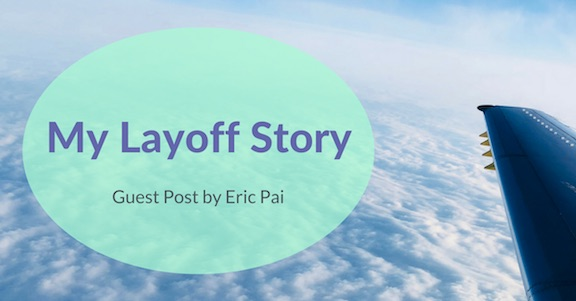
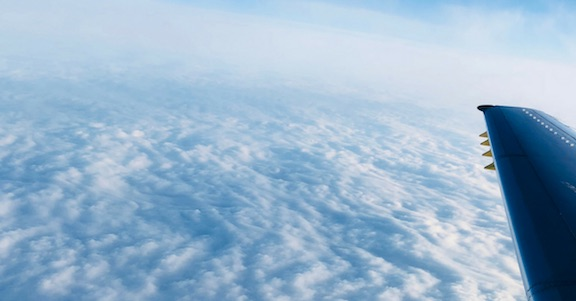
Headling/Picture Changes

diff --git a/_posts/2018-07-16-getting-laid-off.md b/_posts/2018-07-16-getting-laid-off.md
@@ -1,7 +1,7 @@
 ---
 layout: post
-title: "My Story: Getting Laid Off"
-subtitle: How I recovered from the unexpected
+title: "Surviving (and thriving) after a shock"
+subtitle: How a layoff led me to the unexpected
 categories: guest
 date: 2018-07-16 09:00:00 -0800
 author: epai
